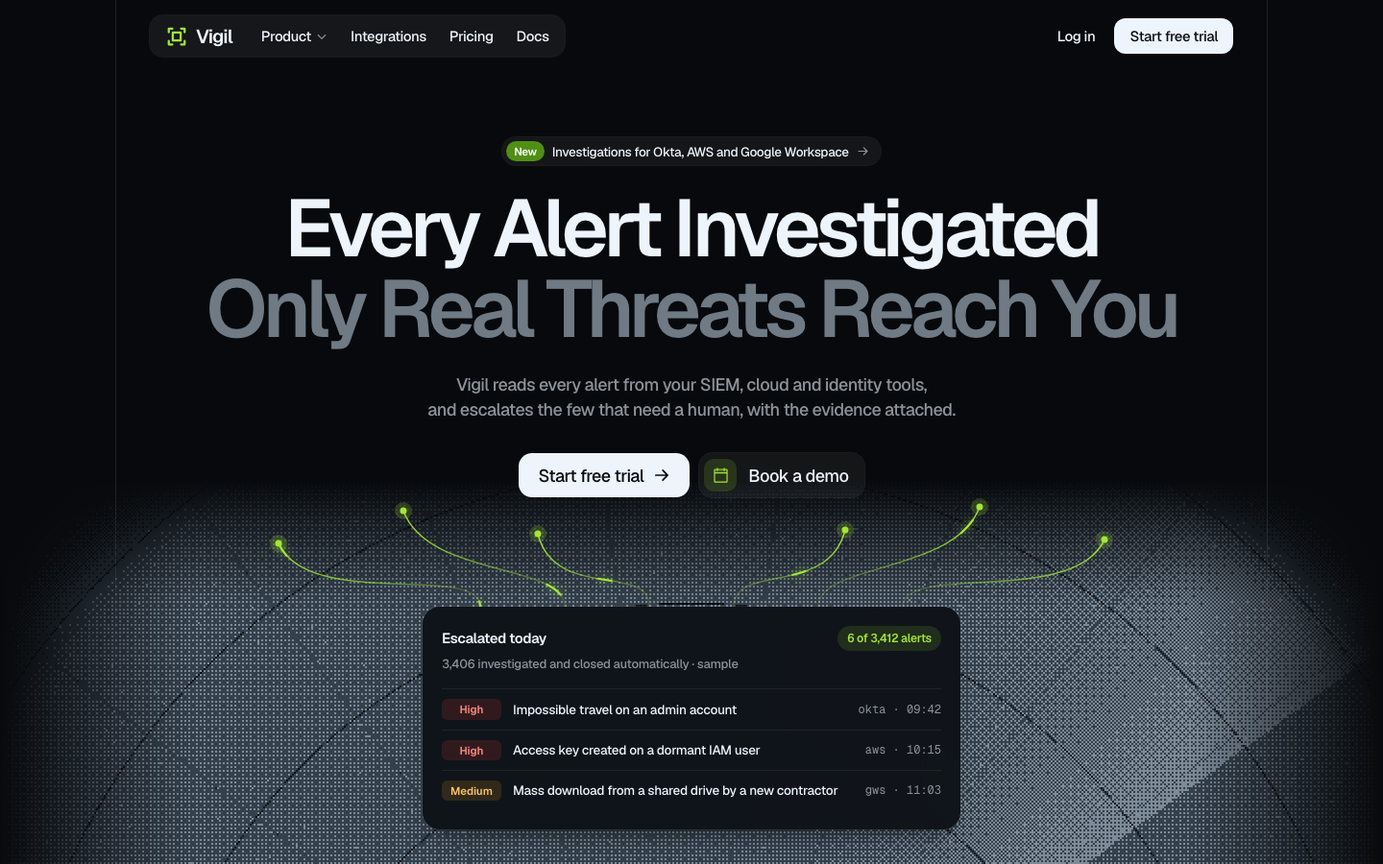
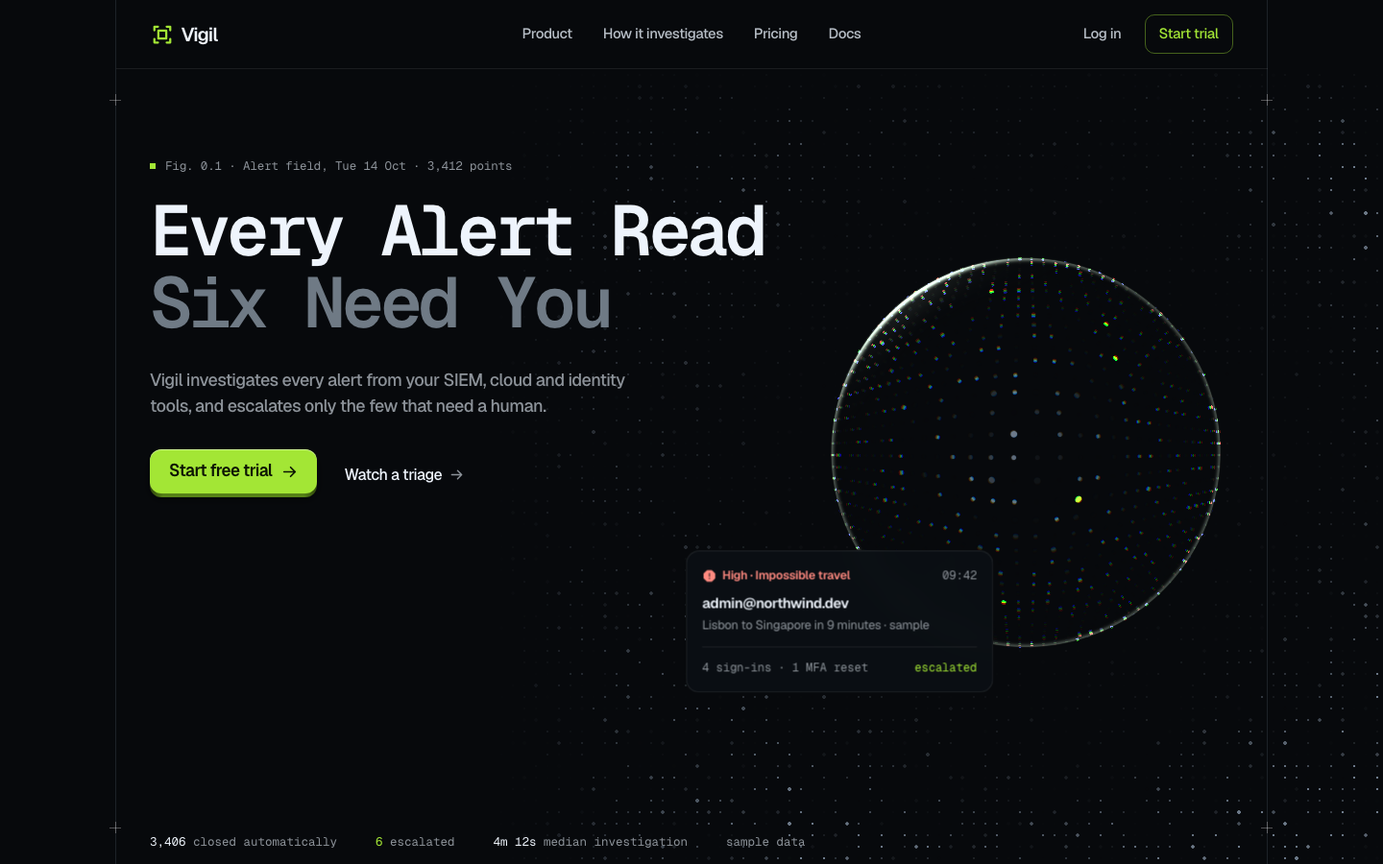
Vigil v2 from the engine library: glass-lens dispersion shader over alert field (Heckel), Comeau 3D push button, mono figure-framed headline, hairline nav; founder rules: nav spec is a default, brands explore their own components

diff --git a/work/vigil/app/src/App.tsx b/work/vigil/app/src/App.tsx
@@ -1,123 +1,86 @@
-import { ArrowRight, CalendarBlank, CaretDown, Scan } from '@phosphor-icons/react'
+import { ArrowRight, Scan, WarningOctagon } from '@phosphor-icons/react'
 import { motion, useReducedMotion } from 'motion/react'
-import { Radar } from './components/Radar'
+import { useCallback, useRef } from 'react'
+import { Lens } from './components/Lens'
 
-// Radar stage (page px, desktop 1440x900): a wide field rising from below the fold.
-const FIELD = { top: 500, h: 400, cx: 720, cy: 700, r: 1000 }
-// Six escalations that survive triage, and where their lines land on the card (top edge, centre).
-const SIX = [
-  { x: 290, y: 566 }, { x: 420, y: 532 }, { x: 560, y: 556 }, { x: 880, y: 552 }, { x: 1020, y: 528 }, { x: 1150, y: 562 },
-]
-const CARD = { w: 560, top: 632 }
-const landX = (i: number) => 720 - 220 + i * 88
-const route = (p: { x: number; y: number }, i: number) => {
-  const ex = landX(i), ey = CARD.top
-  return `M${p.x} ${p.y} C ${p.x + (ex - p.x) * 0.15} ${p.y + 70}, ${ex} ${ey - 46}, ${ex} ${ey}`
-}
-
-const ROWS = [
-  { sev: 'High', title: 'Impossible travel on an admin account', src: 'okta', time: '09:42' },
-  { sev: 'High', title: 'Access key created on a dormant IAM user', src: 'aws', time: '10:15' },
-  { sev: 'Medium', title: 'Mass download from a shared drive by a new contractor', src: 'gws', time: '11:03' },
-]
-
-function Logo() {
-  return (
-    <a href="#" aria-label="Vigil, home" className="inline-flex h-[33px] items-center gap-2 text-ink no-underline">
-      <Scan size={24} weight="bold" className="text-lime" />
-      <span className="text-[20px] font-semibold tracking-[-0.045em]">Vigil</span>
-    </a>
-  )
-}
+const LENS = { home: { x: 1030, y: 440 }, r: 204 }
+const Mark = ({ x, y }: { x: number; y: number }) => (
+  <span aria-hidden="true" className="absolute size-3" style={{ left: x - 6, top: y - 6 }}>
+    <span className="absolute top-1/2 left-0 h-px w-3 bg-white/30" /><span className="absolute top-0 left-1/2 h-3 w-px bg-white/30" />
+  </span>
+)
 
 export default function App() {
   const reduce = useReducedMotion()
+  const card = useRef<HTMLDivElement>(null)
+  const follow = useCallback((x: number, y: number) => {
+    if (card.current) card.current.style.transform = `translate(${x - LENS.r - 150}px, ${y + LENS.r * 0.5}px)`
+  }, [])
   const fade = (d: number) => (reduce ? {} : { initial: { opacity: 0, y: 6 }, animate: { opacity: 1, y: 0 }, transition: { delay: d, duration: 0.6, ease: [0.16, 1, 0.3, 1] as const } })
+
   return (
     <div className="relative h-[900px] min-w-[1440px] overflow-hidden bg-night">
-      {/* rails: full height, behind the field */}
       <div aria-hidden="true" className="pointer-events-none absolute inset-y-0 left-[120px] w-px bg-line" />
       <div aria-hidden="true" className="pointer-events-none absolute inset-y-0 left-[1319px] w-px bg-line" />
 
-      {/* signature field */}
-      <div className="absolute inset-x-0 [mask-composite:intersect] [mask-image:linear-gradient(to_right,transparent_0,#000_14%,#000_86%,transparent_100%),linear-gradient(to_bottom,transparent_0,#000_32%)]" style={{ top: FIELD.top, height: FIELD.h }}>
-        <Radar width={1440} height={FIELD.h} cx={FIELD.cx} cy={FIELD.cy} r={FIELD.r} palette={['#151b22', '#34404b', '#7d8b98']} />
+      {/* signature: glass lens over the alert field */}
+      <div className="absolute inset-0 [mask-composite:intersect] [mask-image:radial-gradient(120%_95%_at_70%_48%,#000_55%,transparent_100%),linear-gradient(to_right,transparent_0,transparent_36%,#000_58%),linear-gradient(to_bottom,transparent_0,transparent_72px,#000_170px)]">
+        <Lens width={1440} height={900} home={LENS.home} radius={LENS.r} onMove={follow} />
       </div>
 
-      {/* the six that survive triage, flowing into the card */}
-      <svg className="absolute inset-0 z-[5]" width={1440} height={900} aria-hidden="true">
-        <defs>
-          {SIX.map((p, i) => (
-            <linearGradient key={i} id={`flow-${i}`} gradientUnits="userSpaceOnUse" x1={p.x} y1={p.y} x2={landX(i)} y2={CARD.top}>
-              <stop offset="0" stopColor="#a3e635" /><stop offset="1" stopColor="#a3e635" stopOpacity="0.15" />
-            </linearGradient>
-          ))}
-        </defs>
-        {SIX.map((p, i) => (
-          <g key={i}>
-            <motion.path d={route(p, i)} fill="none" stroke={`url(#flow-${i})`} strokeWidth={1.4} initial={reduce ? false : { pathLength: 0 }} animate={{ pathLength: 1 }} transition={{ delay: 1.2 + i * 0.1, duration: 1, ease: [0.65, 0, 0.35, 1] }} />
-            {!reduce && <path d={route(p, i)} pathLength={100} fill="none" stroke="#a3e635" strokeWidth={2.2} strokeLinecap="round" className="comet" style={{ animationDelay: `${2.4 + i * 0.4}s`, animationDuration: `${2.6 + (i % 3) * 0.3}s` }} />}
-            <circle cx={p.x} cy={p.y} r={9} fill="#a3e635" fillOpacity={0.2} className="pulse" />
-            <circle cx={p.x} cy={p.y} r={3.5} fill="#a3e635" />
-          </g>
-        ))}
-      </svg>
+      {/* the lens's investigation, riding with it */}
+      <div ref={card} className="absolute top-0 left-0 z-10 w-[320px] will-change-transform" style={{ transform: `translate(${LENS.home.x - LENS.r - 150}px, ${LENS.home.y + LENS.r * 0.5}px)` }}>
+        <motion.div {...fade(1.4)} className="rounded-[14px] border border-white/[0.09] bg-[#0b0f14]/85 p-4 backdrop-blur-[12px]">
+          <div className="flex items-center justify-between">
+            <span className="inline-flex items-center gap-1.5 text-[12.5px] font-semibold tracking-[-0.02em] text-[#ff8a80]"><WarningOctagon size={15} weight="fill" />High · Impossible travel</span>
+            <span className="font-mono text-[12px] text-muted">09:42</span>
+          </div>
+          <div className="mt-2 text-[15px] font-semibold tracking-[-0.03em] text-ink">admin@northwind.dev</div>
+          <div className="mt-0.5 text-[13px] tracking-[-0.02em] text-muted">Lisbon to Singapore in 9 minutes · sample</div>
+          <div className="mt-3 flex items-center justify-between border-t border-white/[0.08] pt-3 font-mono text-[12px]">
+            <span className="text-muted">4 sign-ins · 1 MFA reset</span>
+            <span className="text-lime">escalated</span>
+          </div>
+        </motion.div>
+      </div>
 
-      {/* header: Kaching nav spec, dark */}
-      <header className="relative z-20 mx-auto mt-4 flex h-[43px] w-[1128px] items-center justify-between gap-3">
-        <nav aria-label="Primary" className="flex items-center gap-4 rounded-[14px] bg-white/[0.06] py-[5px] pr-[5px] pl-4 shadow-[var(--shadow-ring)] backdrop-blur-[8px]">
-          <Logo />
-          <ul className="flex items-center gap-[2px]">
-            {['Product', 'Integrations', 'Pricing', 'Docs'].map((l, i) => (
-              <li key={l}><a href="#" className={`flex items-center gap-[5px] rounded-[12px] py-[6px] text-[15px] leading-[21px] font-medium tracking-[-0.45px] text-ink no-underline transition-colors duration-150 hover:bg-white/[0.08] ${i === 0 ? 'pr-[11px] pl-[14px]' : 'px-[11px]'}`}>{l}{i === 0 && <CaretDown size={12} weight="bold" className="text-muted" />}</a></li>
-            ))}
+      {/* figure framing (M15): registration marks where the rails meet the field */}
+      <Mark x={120} y={104} /><Mark x={1319} y={104} /><Mark x={120} y={862} /><Mark x={1319} y={862} />
+
+      {/* nav: a hairline bar between the rails, not a pill */}
+      <header className="relative z-20 mx-auto flex h-[72px] w-[1199px] items-center justify-between border-b border-white/[0.08] px-9">
+        <a href="#" aria-label="Vigil, home" className="flex items-center gap-2 text-ink no-underline">
+          <Scan size={24} weight="bold" className="text-lime" />
+          <span className="text-[20px] font-semibold tracking-[-0.045em]">Vigil</span>
+        </a>
+        <nav aria-label="Primary" className="absolute left-1/2 -translate-x-1/2">
+          <ul className="flex items-center gap-8 text-[15px] font-medium tracking-[-0.03em] text-[#b7bec6]">
+            {['Product', 'How it investigates', 'Pricing', 'Docs'].map((l) => <li key={l}><a href="#" className="slide-link -my-2 inline-block py-2 text-[#b7bec6] transition-colors duration-150 hover:text-ink">{l}</a></li>)}
           </ul>
         </nav>
-        <div className="flex items-center gap-1">
-          <a href="#" className="rounded-[12px] px-4 py-[9px] text-[15px] leading-[19.5px] font-medium tracking-[-0.45px] text-ink no-underline transition-colors duration-150 hover:bg-white/[0.06]">Log in</a>
-          <a href="#" className="rounded-[12px] bg-ink px-4 py-[9px] text-[15px] leading-[19.5px] font-medium tracking-[-0.45px] text-night no-underline transition-colors duration-150 hover:bg-white">Start free trial</a>
+        <div className="flex items-center gap-6 text-[15px] font-medium tracking-[-0.03em]">
+          <a href="#" className="slide-link -my-2 py-2 text-[#b7bec6] hover:text-ink">Log in</a>
+          <a href="#" className="rounded-[10px] border border-lime/40 px-3.5 py-2 text-lime no-underline transition-colors duration-150 hover:bg-lime/10">Start trial</a>
         </div>
       </header>
 
-      <main className="relative z-10 mx-auto h-[841px] w-[1128px] pt-[84px] text-center">
-        <motion.a {...fade(0)} href="#" className="inline-flex items-center gap-2 rounded-full bg-white/[0.05] py-1 pr-3 pl-1 text-[13.5px] font-medium tracking-[-0.03em] text-ink no-underline shadow-[var(--shadow-ring)] backdrop-blur-[8px] transition-colors duration-150 hover:bg-white/[0.09]">
-          <span className="rounded-full bg-[#4f8f16] px-2 py-0.5 text-[11.5px] font-semibold text-white">New</span>
-          Investigations for Okta, AWS and Google Workspace
-          <ArrowRight size={13} weight="bold" className="text-muted" />
-        </motion.a>
-        <motion.h1 {...fade(0.06)} className="mt-6 text-[84px] leading-[1.0] font-semibold tracking-[-0.058em] text-ink">
-          Every Alert Investigated<br /><span className="text-[#6f7a85]">Only Real Threats Reach You</span>
-        </motion.h1>
-        <motion.p {...fade(0.12)} className="mx-auto mt-6 text-[18px] leading-[1.45] font-medium tracking-[-0.03em] text-muted">
-          Vigil reads every alert from your SIEM, cloud and identity tools,<br />and escalates the few that need a human, with the evidence attached.
-        </motion.p>
-        <motion.div {...fade(0.18)} className="mt-8 flex items-center justify-center gap-2.5">
-          <a href="#" className="inline-flex h-[46px] items-center gap-2.5 rounded-[14px] bg-ink px-5 text-[18px] font-medium tracking-[-0.54px] text-night no-underline transition-[background-color,transform] duration-150 hover:bg-white active:scale-[0.98]">
-            Start free trial <ArrowRight size={18} weight="bold" />
-          </a>
-          <a href="#" className="inline-flex h-[46px] items-center gap-3 rounded-[14px] bg-white/[0.05] py-[5px] pr-4 pl-[5px] text-[18px] font-medium tracking-[-0.54px] text-ink no-underline shadow-[var(--shadow-ring)] transition-colors duration-150 hover:bg-white/[0.09] active:scale-[0.98]">
-            <span className="flex size-[34px] items-center justify-center rounded-[10px] bg-[#a3e635]/15 text-lime"><CalendarBlank size={19} weight="duotone" /></span>
-            Book a demo
-          </a>
+      <main className="relative z-10 mx-auto h-[828px] w-[1128px] pt-[92px]">
+        <motion.div {...fade(0)} className="flex items-center gap-2.5 font-mono text-[12.5px] tracking-[-0.01em] text-muted">
+          <span className="size-1.5 bg-lime" />Fig. 0.1 · Alert field, Tue 14 Oct · 3,412 points
         </motion.div>
-
-        {/* product proof: the escalation queue, anchored to the hero bottom */}
-        <motion.section {...fade(0.4)} aria-label="Sample escalation queue" className="absolute bottom-9 left-1/2 -translate-x-1/2 rounded-[18px] bg-[#0d1116]/95 p-5 text-left shadow-[var(--shadow-card)] backdrop-blur-[10px]" style={{ width: CARD.w }}>
-          <div className="flex items-center justify-between">
-            <div className="text-[15px] font-semibold tracking-[-0.03em] text-ink">Escalated today</div>
-            <span className="inline-flex items-center gap-1.5 rounded-full bg-[#a3e635]/12 px-2.5 py-1 text-[12px] font-semibold tracking-[-0.02em] text-lime">6 of 3,412 alerts</span>
-          </div>
-          <div className="mt-1 text-[13px] font-medium tracking-[-0.02em] text-muted">3,406 investigated and closed automatically · sample</div>
-          <ul className="mt-4 divide-y divide-white/[0.07] border-t border-white/[0.07]">
-            {ROWS.map((r) => (
-              <li key={r.title} className="flex items-center gap-3 py-2.5">
-                <span className={`w-[62px] shrink-0 rounded-[6px] px-1.5 py-0.5 text-center text-[11.5px] font-semibold ${r.sev === 'High' ? 'bg-[#f04438]/15 text-[#ff8a80]' : 'bg-[#f5a524]/15 text-[#f7c46a]'}`}>{r.sev}</span>
-                <span className="min-w-0 flex-1 truncate text-[13.5px] font-medium tracking-[-0.02em] text-ink">{r.title}</span>
-                <span className="font-mono text-[12px] text-muted">{r.src} · {r.time}</span>
-              </li>
-            ))}
-          </ul>
-        </motion.section>
+        <motion.h1 {...fade(0.06)} className="mt-5 font-mono text-[74px] leading-[1.02] font-semibold tracking-[-0.06em] text-ink">
+          Every Alert Read<br /><span className="text-[#6f7a85]">Six Need You</span>
+        </motion.h1>
+        <motion.p {...fade(0.12)} className="mt-7 text-[18px] leading-[1.5] font-medium tracking-[-0.03em] text-muted">
+          Vigil investigates every alert from your SIEM, cloud and identity<br />tools, and escalates only the few that need a human.
+        </motion.p>
+        <motion.div {...fade(0.18)} className="mt-9 flex items-center gap-7">
+          <a href="#" className="push"><span className="push-shadow" /><span className="push-edge" /><span className="push-front">Start free trial <ArrowRight size={17} weight="bold" /></span></a>
+          <a href="#" className="slide-link inline-flex items-center gap-2 text-[16px] font-medium tracking-[-0.03em] text-ink">Watch a triage <ArrowRight size={15} weight="bold" className="text-muted" /></a>
+        </motion.div>
+        <motion.div {...fade(0.3)} className="absolute top-[796px] left-0 flex gap-10 font-mono text-[12.5px] text-muted">
+          <span><span className="text-ink">3,406</span> closed automatically</span><span><span className="text-lime">6</span> escalated</span><span><span className="text-ink">4m 12s</span> median investigation</span><span>sample data</span>
+        </motion.div>
       </main>
       <p className="sr-only">Vigil is a fictional product; all alerts, names and numbers are sample data.</p>
     </div>

diff --git a/work/vigil/app/src/components/Lens.tsx b/work/vigil/app/src/components/Lens.tsx
@@ -1,0 +1,89 @@
+import { useEffect, useRef } from 'react'
+
+// A glass lens over the alert field (Heckel MH-26/27/29: refraction, per-channel dispersion, Fresnel rim).
+// The field: 3,412 alerts on a 15px grid. Inside the lens they are magnified and the threats light up.
+const VERT = `attribute vec2 p; void main(){ gl_Position = vec4(p, 0., 1.); }`
+const FRAG = `
+precision highp float;
+uniform vec2 uRes, uLens; uniform float uLR, uDpr, uTime, uDev;
+float hash(vec2 p){ return fract(sin(dot(p, vec2(127.1, 311.7))) * 43758.5453); }
+// one channel of the dot field at p (css px); returns coverage and whether the dot is a threat
+vec2 dots(vec2 p, float grow){
+  float cell = 12.;
+  vec2 g = floor(p / cell), c = (g + .5) * cell;
+  float h = hash(g);
+  float threat = step(.991, h);
+  float rad = mix(1.45 + .5 * step(.8, h), 2.2, threat) * grow;
+  float a = 1. - smoothstep(rad - .55, rad + .55, length(p - c));
+  float reveal = step(hash(g + 9.7), uDev);
+  float tw = .55 + .45 * sin(uTime * 1.4 + h * 40.);
+  return vec2(a * reveal * mix(tw, 1., threat), threat);
+}
+void main(){
+  vec2 p = vec2(gl_FragCoord.x, uRes.y - gl_FragCoord.y) / uDpr;
+  vec2 d = p - uLens; float r = length(d) / uLR;
+  vec3 grey = vec3(.42, .47, .53), lime = vec3(.64, .9, .21);
+  vec3 col; float alpha;
+  if (r < 1.) {
+    float k = .48 + .52 * r * r;                       // ~2x magnification at the centre
+    vec2 R = dots(uLens + d * k * .982, 1.), G = dots(uLens + d * k, 1.), B = dots(uLens + d * k * 1.018, 1.);
+    vec3 base = vec3(R.x, G.x, B.x) * (grey * 1.55);
+    vec3 hot = vec3(R.x * R.y, G.x * G.y, B.x * B.y) * lime * 1.25;
+    col = mix(base, hot, max(max(R.y, G.y), B.y));
+    float fres = pow(r, 5.) * .22;                     // Fresnel rim
+    float rim = smoothstep(.955, .99, r) * (1. - smoothstep(.99, 1., r));
+    float spec = pow(max(0., dot(normalize(vec2(-.6, -.8)), normalize(d))), 6.) * smoothstep(.75, .97, r) * .5;
+    col += vec3(.8, .88, .84) * (rim * .7 + spec) + lime * fres * .3;
+    col += vec3(.035, .045, .05) * (1. - r) * smoothstep(-.2, .9, -d.x / uLR - d.y / uLR); // glass body, lighter to the top-left
+    alpha = .16 + .84 * max(max(col.r, col.g), col.b);
+    col = col + vec3(.012, .016, .02);                 // faint glass tint
+  } else {
+    vec2 o = dots(p, 1.);
+    float fall = mix(.55, 1.05, smoothstep(1., 2.4, r)); // the lens's soft shadow on the field
+    col = grey * o.x * fall;                           // threats only light up under the lens
+    alpha = o.x * fall;
+  }
+  gl_FragColor = vec4(col, clamp(alpha, 0., 1.));
+}`
+
+export function Lens({ width, height, home, radius, onMove }: { width: number; height: number; home: { x: number; y: number }; radius: number; onMove?: (x: number, y: number) => void }) {
+  const ref = useRef<HTMLCanvasElement>(null)
+  useEffect(() => {
+    const canvas = ref.current!
+    const gl = canvas.getContext('webgl', { antialias: false, alpha: true, premultipliedAlpha: false })
+    if (!gl) return
+    const dpr = Math.min(2, devicePixelRatio || 1)
+    canvas.width = Math.round(width * dpr); canvas.height = Math.round(height * dpr)
+    gl.viewport(0, 0, canvas.width, canvas.height)
+    gl.enable(gl.BLEND); gl.blendFunc(gl.SRC_ALPHA, gl.ONE_MINUS_SRC_ALPHA)
+    const sh = (t: number, s: string) => { const o = gl.createShader(t)!; gl.shaderSource(o, s); gl.compileShader(o); return o }
+    const prog = gl.createProgram()!
+    gl.attachShader(prog, sh(gl.VERTEX_SHADER, VERT)); gl.attachShader(prog, sh(gl.FRAGMENT_SHADER, FRAG)); gl.linkProgram(prog); gl.useProgram(prog)
+    gl.bindBuffer(gl.ARRAY_BUFFER, gl.createBuffer())
+    gl.bufferData(gl.ARRAY_BUFFER, new Float32Array([-1, -1, 1, -1, -1, 1, 1, 1]), gl.STATIC_DRAW)
+    const loc = gl.getAttribLocation(prog, 'p'); gl.enableVertexAttribArray(loc); gl.vertexAttribPointer(loc, 2, gl.FLOAT, false, 0, 0)
+    const u = (n: string) => gl.getUniformLocation(prog, n)
+    gl.uniform2f(u('uRes'), canvas.width, canvas.height); gl.uniform1f(u('uDpr'), dpr); gl.uniform1f(u('uLR'), radius)
+    const reduce = matchMedia('(prefers-reduced-motion: reduce)').matches
+    let raf = 0, last = 0, mx: number | null = null, my = 0, lx = home.x, ly = home.y
+    const t0 = performance.now()
+    const onPointer = (e: PointerEvent) => { const b = canvas.getBoundingClientRect(); mx = e.clientX - b.left; my = e.clientY - b.top }
+    const onLeave = () => { mx = null }
+    window.addEventListener('pointermove', onPointer); document.addEventListener('pointerleave', onLeave)
+    const frame = (now: number) => {
+      const t = (now - t0) / 1000
+      // a slow orbit around home; the pointer pulls it gently when it is over the field's right half
+      let tx = home.x + Math.cos(t * 0.23) * 60, ty = home.y + Math.sin(t * 0.31) * 34
+      if (mx !== null && mx > width * 0.52) { tx = mx; ty = Math.min(Math.max(my, 220), height - 140) }
+      lx += (tx - lx) * (reduce ? 1 : 0.06); ly += (ty - ly) * (reduce ? 1 : 0.06)
+      gl.uniform2f(u('uLens'), lx, ly); gl.uniform1f(u('uTime'), reduce ? 4 : t + 4)
+      gl.uniform1f(u('uDev'), reduce ? 1 : Math.min(1, Math.max(0, (t - 0.15) / 1.2)))
+      gl.clearColor(0, 0, 0, 0); gl.clear(gl.COLOR_BUFFER_BIT); gl.drawArrays(gl.TRIANGLE_STRIP, 0, 4)
+      onMove?.(lx, ly)
+    }
+    const loop = (now: number) => { raf = requestAnimationFrame(loop); if (now - last > 16) { last = now; frame(now) } }
+    if (reduce) frame(performance.now()); else raf = requestAnimationFrame(loop)
+    return () => { cancelAnimationFrame(raf); window.removeEventListener('pointermove', onPointer); document.removeEventListener('pointerleave', onLeave) }
+  }, [width, height, home.x, home.y, radius, onMove])
+  return <canvas ref={ref} aria-hidden="true" style={{ width, height }} className="pointer-events-none block" />
+}

diff --git a/work/vigil/app/src/index.css b/work/vigil/app/src/index.css
@@ -24,3 +24,18 @@ body { background: var(--color-night); color: var(--color-ink); font-family: var
 .comet { stroke-dasharray: 9 91; stroke-dashoffset: 100; opacity: 0; filter: drop-shadow(0 0 4px rgba(163, 230, 53, 0.7)); animation-name: comet; animation-timing-function: cubic-bezier(.45,0,.25,1); animation-iteration-count: infinite; animation-fill-mode: both; }
 @keyframes comet { 0% { stroke-dashoffset: 100; opacity: 0 } 12% { opacity: 1 } 88% { opacity: 1 } 100% { stroke-dashoffset: 0; opacity: 0 } }
 @media (prefers-reduced-motion: reduce) { .pulse, .comet { animation: none; } .comet { display: none; } }
+
+/* Comeau 3D push button (JC-DM-09 layers, JC-DM-30 timings): shadow, edge, sliding front */
+.push { position: relative; display: inline-block; border-radius: 12px; text-decoration: none; outline-offset: 4px; transition: filter 250ms; user-select: none; -webkit-tap-highlight-color: transparent; }
+.push-shadow { position: absolute; inset: 0; border-radius: 12px; background: hsl(0 0% 0% / 0.45); will-change: transform; transform: translateY(2px); transition: transform 600ms cubic-bezier(.3,.7,.4,1); filter: blur(4px); }
+.push-edge { position: absolute; inset: 0; border-radius: 12px; background: linear-gradient(to left, hsl(84 70% 16%) 0%, hsl(84 70% 30%) 8%, hsl(84 70% 30%) 92%, hsl(84 70% 16%) 100%); }
+.push-front { position: relative; display: flex; align-items: center; gap: 10px; height: 46px; padding: 0 20px; border-radius: 12px; background: #a3e635; color: #0c1404; font-size: 17px; font-weight: 600; letter-spacing: -0.03em; will-change: transform; transform: translateY(-4px); transition: transform 600ms cubic-bezier(.3,.7,.4,1); box-shadow: inset 0 1px 0 rgb(255 255 255 / 0.45); }
+@media (hover: hover) { .push:hover { filter: brightness(108%); } .push:hover .push-front { transform: translateY(-6px); transition: transform 250ms cubic-bezier(.3,.7,.4,1.5); } .push:hover .push-shadow { transform: translateY(4px); transition: transform 250ms cubic-bezier(.3,.7,.4,1.5); } }
+.push:active .push-front { transform: translateY(-2px); transition: transform 34ms; }
+.push:active .push-shadow { transform: translateY(1px); transition: transform 34ms; }
+@media (prefers-reduced-motion: reduce) { .push-front, .push-shadow { transition: none; } }
+
+/* link with a sliding underline (in from the left, out to the right) */
+.slide-link { position: relative; text-decoration: none; }
+.slide-link::after { content: ""; position: absolute; left: 0; right: 0; bottom: -3px; height: 1px; background: currentColor; transform: scaleX(0); transform-origin: right; transition: transform 300ms cubic-bezier(.33,1,.68,1); }
+@media (hover: hover) { .slide-link:hover::after { transform: scaleX(1); transform-origin: left; } }

diff --git a/knowledge/founder/founder-taste.md b/knowledge/founder/founder-taste.md
@@ -91,9 +91,9 @@ Every rule here is a direct founder verdict on real output. It outranks books, w
   **Why** Founder: "search for more examples or what would look better and cleaner".
   **Applies to** every redesign round. **Check** DIRECTION.md cites the references opened. **Source** founder, Tideline round 4
 
-- **RULE** [founder] Nav uses Kaching's exact spec: one pill 43px tall (padding 5/5/5/16, radius 14, white 80% + 8px blur), 16px between brand and links, 2px between links, links 6/11 padding at 15px/21px and -0.45px, chevron 5px from its label with 14px left padding on that link, actions 9/16 at radius 12 on the right. Compact, never airy.
+- **RULE** [founder] Default nav (when the brand has no nav system of its own) uses Kaching's exact spec: one pill 43px tall (padding 5/5/5/16, radius 14, white 80% + 8px blur), 16px between brand and links, 2px between links, links 6/11 padding at 15px/21px and -0.45px, chevron 5px from its label with 14px left padding on that link, actions 9/16 at radius 12 on the right. Compact, never airy.
   **Why** Founder: "the first original one was best", the respaced version was "too spaced out", with no gap after the Product chevron.
-  **Applies to** marketing site nav. **Check** nav pill height 43px; link padding 6px 11px; gap after chevron >= 5px. **Source** founder, Tideline round 5; knowledge/larpo-shipped Kaching hero.css
+  **Applies to** marketing site nav. **Check** nav pill height 43px; link padding 6px 11px; gap after chevron >= 5px. A new brand may define its own nav at the same polish (compact, aligned, no stray gaps) and should, so pages do not all look like one kit. **Source** founder, Tideline round 5 and Vigil round 1; knowledge/larpo-shipped Kaching hero.css
 
 - **RULE** [founder] Hero headlines have no full stop at the end.
   **Why** Founder: "no dot at the end of title text please".
@@ -122,6 +122,10 @@ Every rule here is a direct founder verdict on real output. It outranks books, w
 - **RULE** [founder] Give the hero copy block air at the top: roughly 80-90px between the nav and the announcement chip at 1440x900.
   **Why** Founder: the title "and everything should be a little bit more down".
   **Applies to** landing page hero. **Check** chip top - nav bottom ~= 80-90px. **Source** founder, Tideline round 6
+
+- **RULE** [founder] Founder rules set the polish floor, not the style. Each new brand must explore its own effects, button style, type voice and graphics from the engine library (art-direction moves, Heckel shader recipes, Comeau button/depth recipes, Rauno/Emil craft details) instead of reusing the last project's kit; the diversity gate checks the fingerprint, and the designer must also check the components (nav, buttons, chips, cards) for sameness.
+  **Why** Founder on Vigil v1: "too alike the project we just did, explore better effects, buttons, styles, shaders, graphics... use the engine".
+  **Applies to** every new brand. **Check** DIRECTION.md names the moves and recipes used, and at least nav, primary button and product card differ in construction from the previous accepted project. **Source** founder, Vigil round 1
 
 ## 5. Exceptions & judgement calls
 

diff --git a/work/vigil/DIRECTION.md b/work/vigil/DIRECTION.md
@@ -27,3 +27,12 @@
 - Engine fixes found on the way: the gate counted founder-mandated axes (nav height, Geist) as sameness, so they are now LOCKED; copied node_modules break, so a reused scaffold uses `npm ci`.
 - Critique passes: (1) hard top edge on the field, blocky 8px specks, crossing routes, truncated alert; (2) routes landed under the card, faint rings; (3) S-curve routes from points level with the card; (4) headline size too close to Tideline (70 → 84px).
 - Weakest point: the radar's sweep band in the lower right is the only bright texture area; the composition is very symmetric.
+
+## Round 2 (founder: "too alike the project we just did ... use the engine")
+Rebuilt from the engine library, not from Tideline's kit:
+- Moves: M15 editorial figure framing (Fig. 0.1 label, registration marks at rail/field corners), M26 technical monospace voice (Geist Mono 74px headline), M52 real-UI proof (investigation card riding the lens).
+- Shader: Heckel MH-26 refraction (lens magnification ~2x), MH-27 per-channel dispersion (R/G/B sampled at 0.982/1/1.018), MH-29 Fresnel rim + specular edge; transparent field so rails sit behind it; threats light lime only under the lens (the concept).
+- Button: Comeau JC-DM-09 3D push button (shadow / gradient edge / sliding front, -4/-6/-2px) with JC-DM-30 timings (600ms return, 250ms hover with overshoot, 34ms press).
+- Nav: hairline bar between the rails with sliding underlines (Kaching ArrowLink motion), not the pill kit.
+- Founder rules updated: Kaching nav is a default, not a law; new rule that each brand explores its own components from the library.
+- Gate: Tideline 2/10, Capto 1/10, Kaching 0/10. Check: 0 fail.
